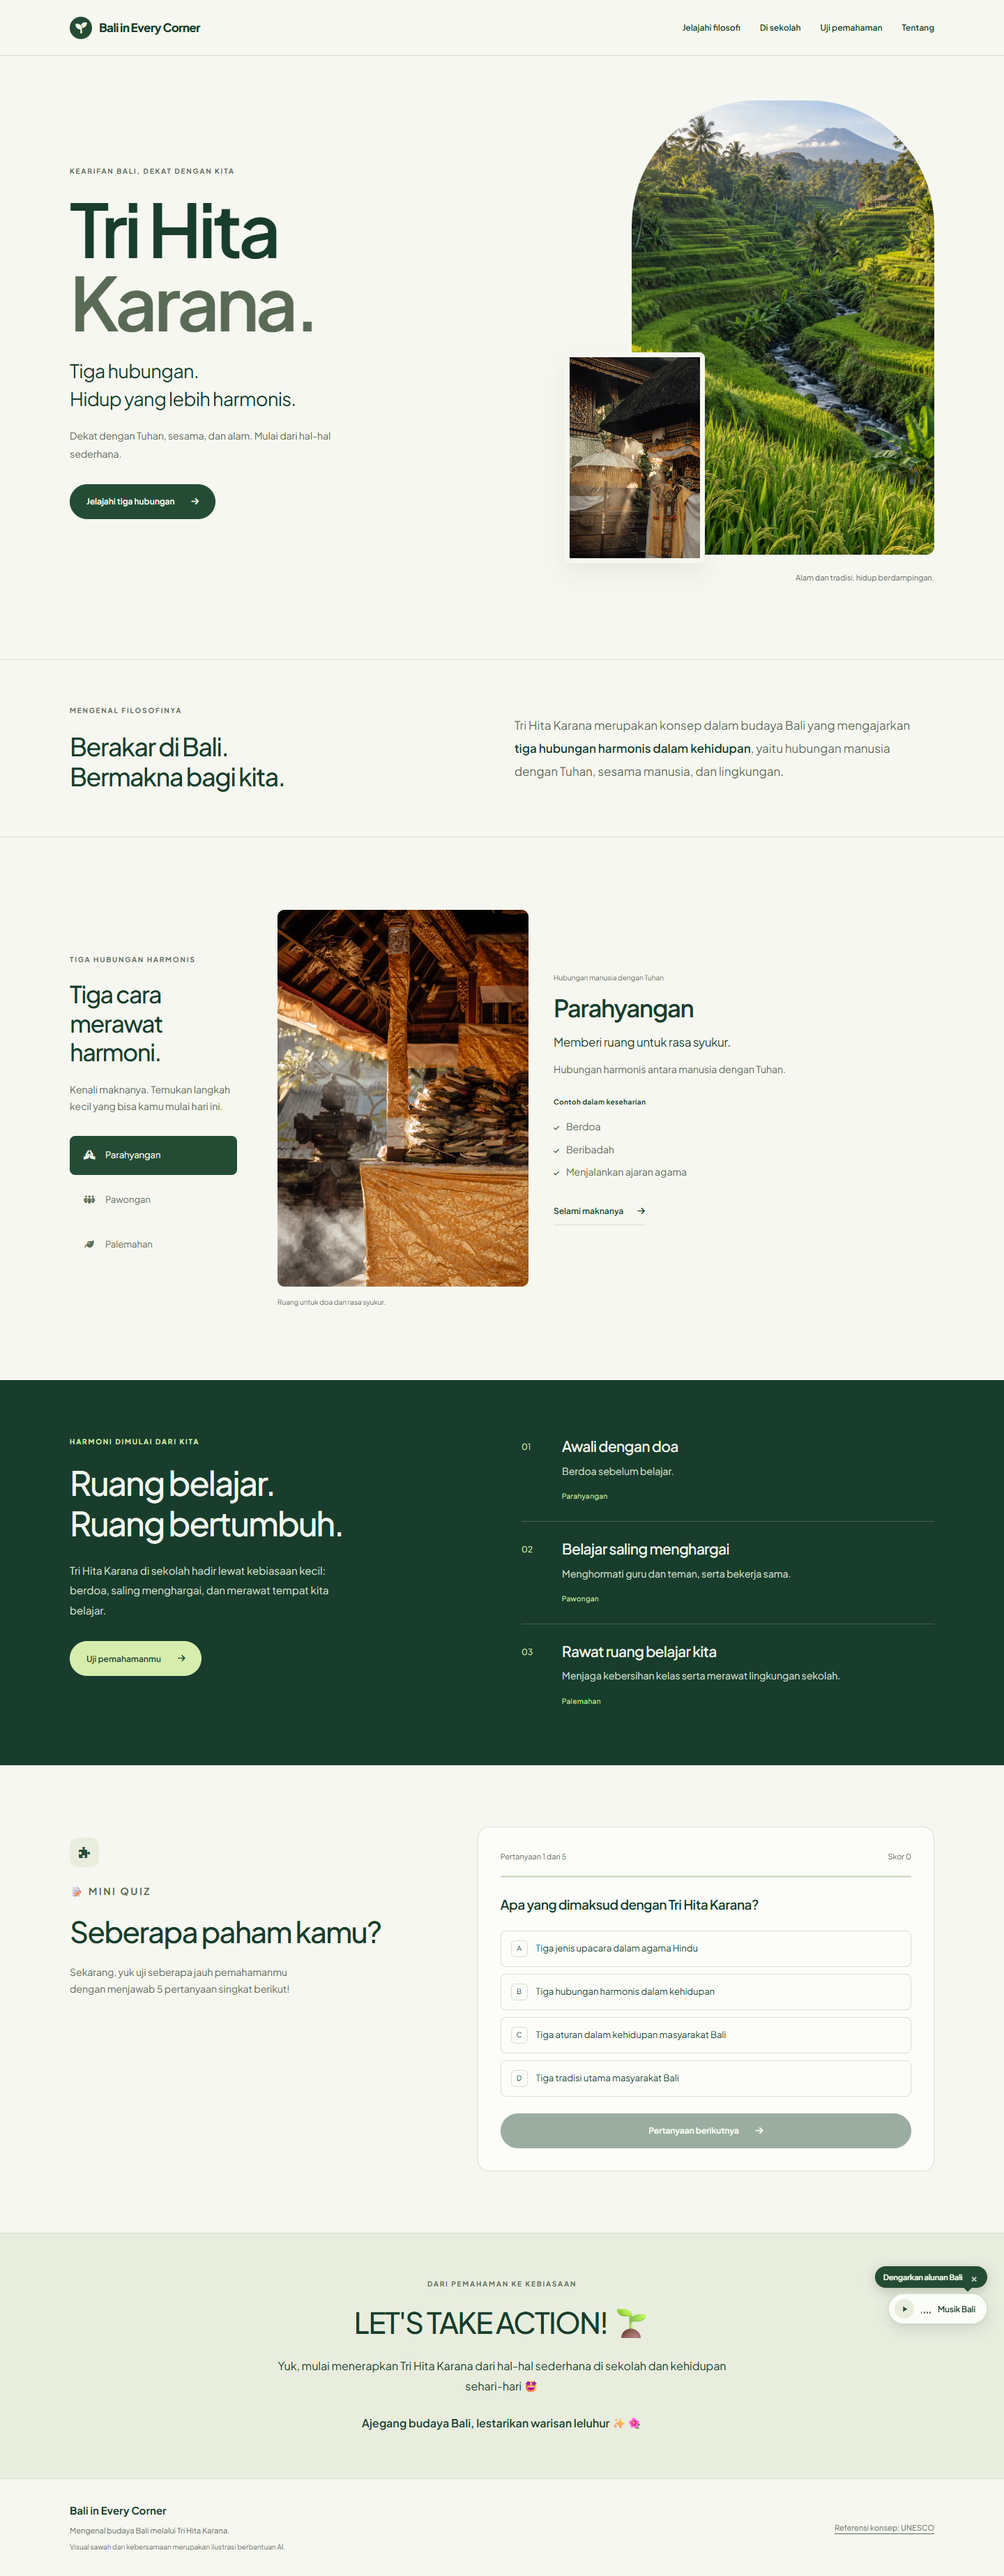
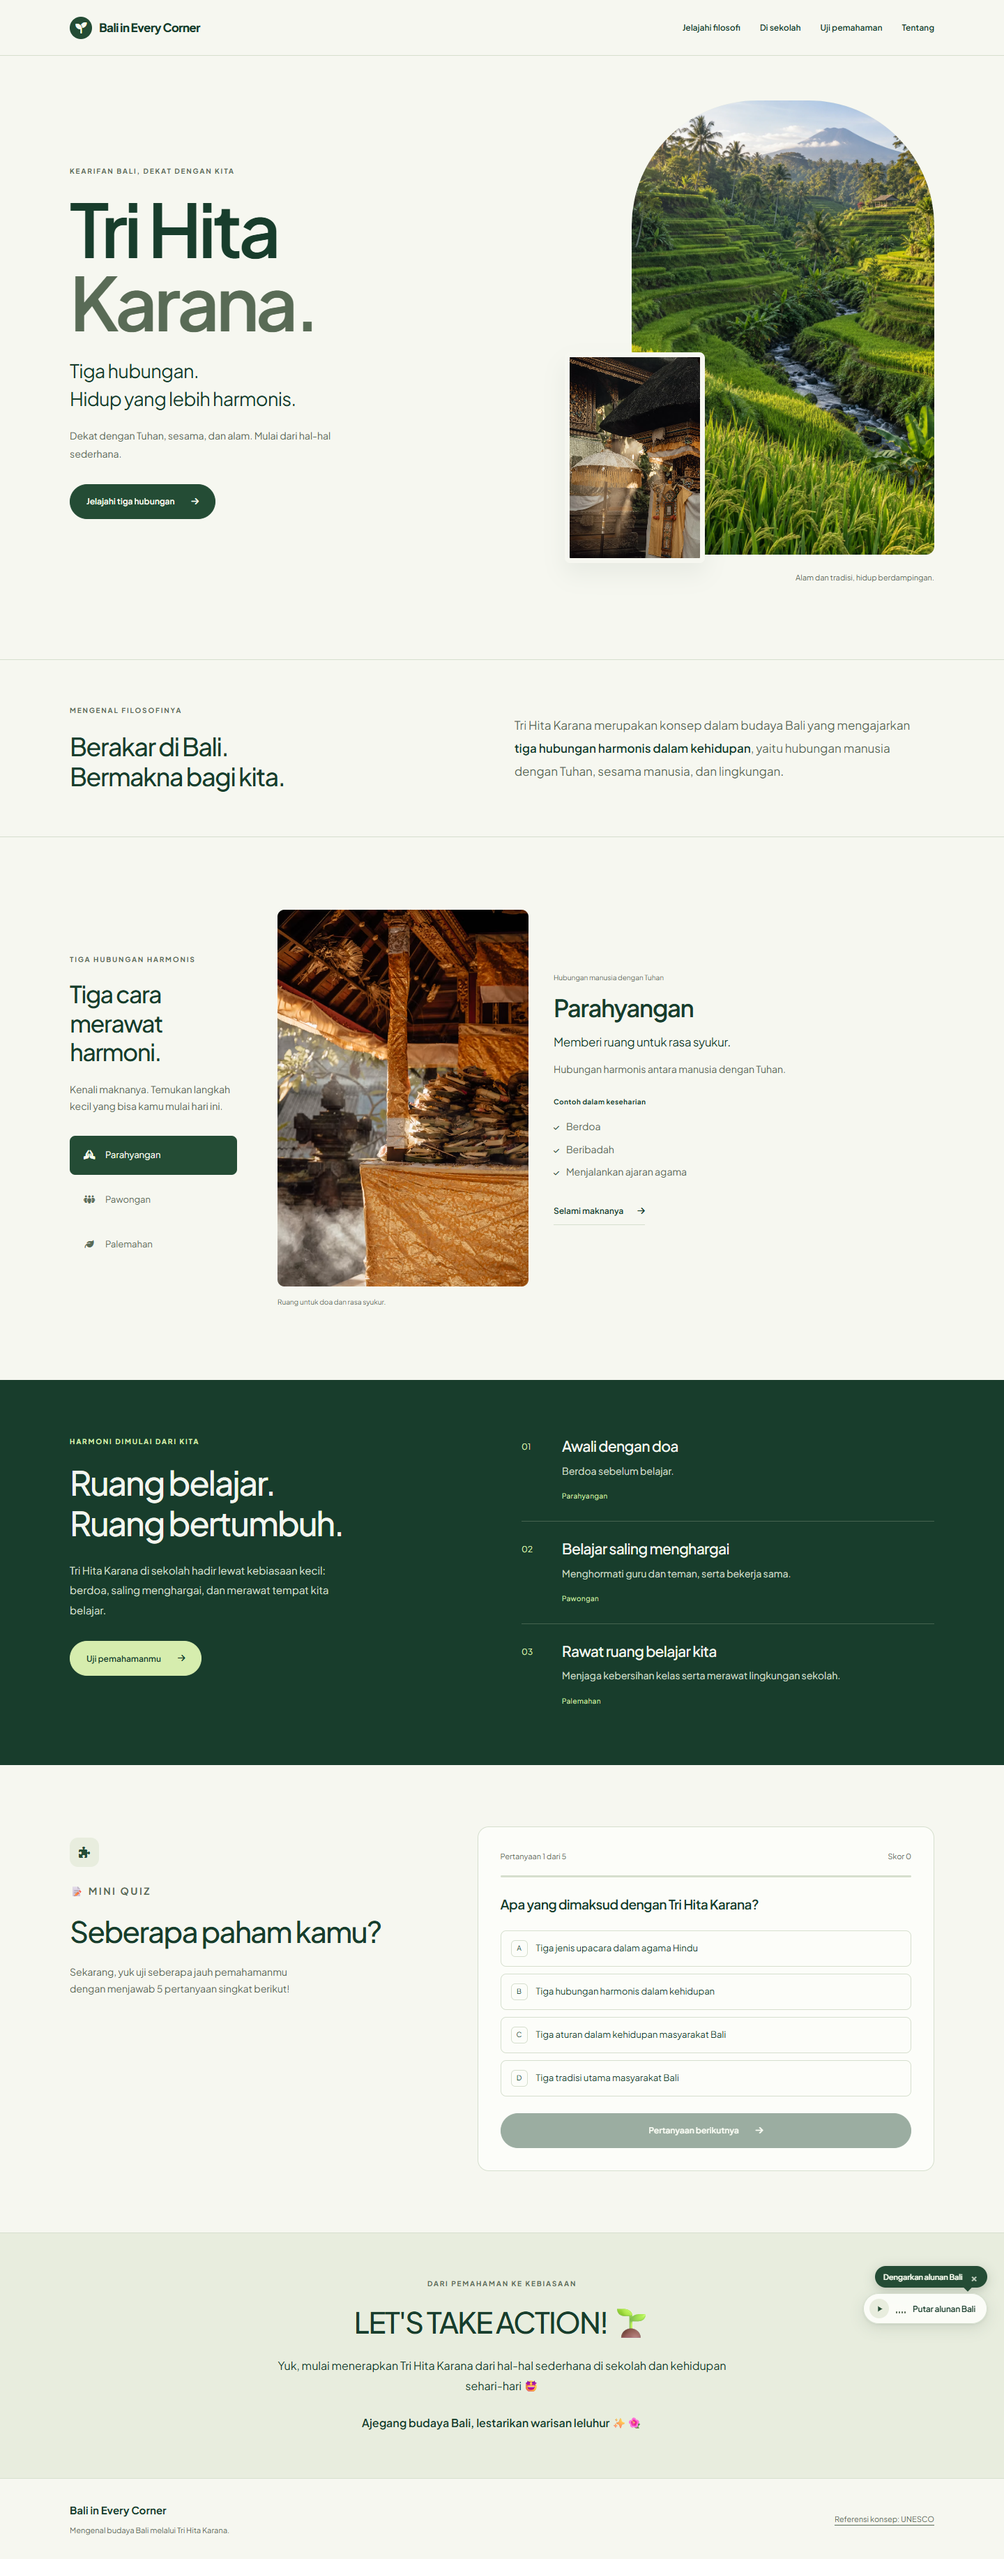
fix: fit mobile hero to browser viewport and surface music control

diff --git a/css/mobile.css b/css/mobile.css
@@ -2,21 +2,21 @@
 @media (max-width: 700px) {
   #thk-green { overflow: visible; --g-bg:light-dark(#f5f1e8,#17261f); --g-card:light-dark(#fffcf5,#20392a); --g-soft:light-dark(#e8e6d9,#284632); --g-muted:light-dark(#626759,#bfd0b5); --g-line:light-dark(#d9d8c9,#48613d); }
   #thk-green .g-wrap { padding-inline: 22px; }
-  #thk-green .g-nav { min-height: 76px; gap: 0; border:0; }
+  #thk-green .g-nav { min-height: 64px; gap: 0; border:0; }
   #thk-green .g-brand { font-size: 14px; letter-spacing: -.5px; }
   #thk-green .g-brand-mark { width: 30px; height: 30px; }
   #thk-green .g-menu-toggle { min-height: 48px; font-size: 12px; background:transparent; border:0; border-radius:0; padding-right:0; }
   #thk-green .g-navlinks.g-open { display: grid; grid-template-columns: 1fr; }
   #thk-green .g-navlinks a { font-size: 16px; min-height: 48px; }
-  #thk-green .g-hero { position:relative; padding:40px 26px 28px; background:#172c23; color:#fff9e9; isolation:isolate; }
+  #thk-green .g-hero { position:relative; padding:24px 26px 12px; background:#172c23; color:#fff9e9; isolation:isolate; }
   #thk-green .g-hero-layout { display:block; }
-  #thk-green .g-hero-heading { position:relative; z-index:1; min-height:590px; display:flex; flex-direction:column; align-items:flex-start; }
+  #thk-green .g-hero-heading { position:relative; z-index:1; min-height:500px; min-height:clamp(500px,calc(100svh - 112px),580px); display:flex; flex-direction:column; align-items:flex-start; }
   #thk-green .g-kicker { font-size: 11px; letter-spacing: .12em; margin-bottom: 14px; }
-  #thk-green h1 { font-family:Georgia,'Times New Roman',serif; font-size:clamp(64px,19vw,86px); font-weight:400; line-height:.93; letter-spacing:-.055em; text-shadow:0 2px 24px #0003; margin-top:18px; }
+  #thk-green h1 { font-family:Georgia,'Times New Roman',serif; font-size:clamp(56px,17vw,74px); font-weight:400; line-height:.93; letter-spacing:-.055em; text-shadow:0 2px 24px #0003; margin-top:12px; }
   #thk-green h1 span { color:#e4d7b3; font-style:italic; }
   #thk-green .g-hero .g-kicker { color:#eee3c7; font-size:10px; letter-spacing:.18em; }
-  #thk-green .g-hero-subtitle { margin-top:24px; font-size:17px; line-height:1.6; color:#fff9e9; }
-  #thk-green .g-hero-description { font-size:14px; line-height:1.75; margin-block:auto 22px; padding-top:110px; max-width:30ch; color:#f0ead9; }
+  #thk-green .g-hero-subtitle { margin-top:20px; font-size:17px; line-height:1.6; color:#fff9e9; }
+  #thk-green .g-hero-description { font-size:14px; line-height:1.75; margin-block:auto 16px; padding-top:24px; max-width:30ch; color:#f0ead9; }
   #thk-green .g-action { min-height:54px; width:100%; padding:14px 18px; justify-content:space-between; font-size:13px; border-radius:3px; }
   #thk-green .g-hero .g-action { background:#f1e8d2; border-color:#f1e8d2; color:#213c2c; }
   #thk-green .g-hero .g-action i { border-left:1px solid #a9b29c; padding-left:20px; }
@@ -57,9 +57,12 @@
   #thk-green .g-feedback, #thk-green .g-detail-copy { font-size: 16px; }
   #thk-green .g-footer { font-size: 13px; padding-bottom: 28px; }
   #thk-green .g-footer small { font-size: 12px; }
-  #thk-green .g-audio-dock { position: static; padding: 0 22px 28px; align-items: flex-start; }
+  #thk-green .g-audio-dock { position:static; padding:8px 0 0; align-items:center; width:100%; }
   #thk-green .g-audio-bubble { display: none; }
-  #thk-green .g-audio-btn { height: 48px; box-shadow: none; }
+  #thk-green .g-audio-btn, #thk-green .g-audio-btn[data-playing="true"] { height:48px; box-shadow:none; background:transparent; border-color:transparent; color:#f1e8d2; backdrop-filter:none; }
+  #thk-green .g-audio-disc, #thk-green .g-audio-btn[data-playing="true"] .g-audio-disc { background:#f1e8d226; color:#f1e8d2; }
+  #thk-green .g-eq-bar, #thk-green .g-audio-btn[data-playing="true"] .g-eq-bar { background:#f1e8d2; }
+  #thk-green .g-hero :focus-visible { outline-color:#f1e8d2; }
   #thk-green .g-audio-label { font-size: 14px; }
   #thk-green dialog { margin: auto auto 0; width: 100%; max-width: 700px; max-height: 85dvh; padding: 24px; border-radius: 24px 24px 0 0; }
 }

diff --git a/index.html b/index.html
@@ -7,7 +7,7 @@
   <meta name="description" content="Kenali Tri Hita Karana: hubungan harmonis dengan Tuhan, sesama manusia, dan lingkungan, serta contoh penerapannya di sekolah.">
   <link rel="stylesheet" href="css/fonts.css">
   <link rel="stylesheet" href="css/style.css">
-<link rel="stylesheet" href="css/mobile.css"></head>
+<link rel="stylesheet" href="css/mobile.css?v=3"></head>
 <body>
 
 <div id="thk-green" aria-label="Tri Hita Karana, eksplorasi interaktif">
@@ -32,6 +32,31 @@
         <p class="g-hero-subtitle">Tiga hubungan.<br>Hidup yang lebih harmonis.</p>
         <p class="g-hero-description">Dekat dengan Tuhan, sesama, dan alam. Mulai dari hal-hal sederhana.</p>
         <a class="g-action" href="#g-explore">Jelajahi tiga hubungan <i class="fa-solid fa-arrow-right" aria-hidden="true"></i></a>
+ <!-- Ambient music: inline on mobile, floating on desktop -->
+ <aside class="g-audio-dock" id="g-audio-dock" aria-label="Kontrol musik latar">
+   <div class="g-audio-bubble" id="g-audio-bubble" role="status">
+     <span>Dengarkan alunan Bali</span>
+     <button type="button" class="g-audio-bubble-close" id="g-audio-bubble-close" aria-label="Tutup petunjuk">×</button>
+   </div>
+   <button type="button" class="g-audio-btn" id="g-audio-btn" aria-label="Putar musik latar Bali" aria-pressed="false" data-playing="false">
+     <span class="g-audio-disc" aria-hidden="true">
+       <svg class="g-icon-play" viewBox="0 0 24 24" width="13" height="13" fill="currentColor">
+         <path d="M8 5v14l11-7z"/>
+       </svg>
+       <svg class="g-icon-pause" viewBox="0 0 24 24" width="13" height="13" fill="currentColor">
+         <path d="M6 19h4V5H6v14zm8-14v14h4V5h-4z"/>
+       </svg>
+     </span>
+     <span class="g-audio-equalizer" aria-hidden="true">
+       <span class="g-eq-bar"></span>
+       <span class="g-eq-bar"></span>
+       <span class="g-eq-bar"></span>
+       <span class="g-eq-bar"></span>
+     </span>
+     <span class="g-audio-label" id="g-audio-label">Putar alunan Bali</span>
+   </button>
+   <audio id="g-audio-el" preload="none" loop src="assets/audio/tri-hita-karana.mp3"></audio>
+ </aside>
       </div>
       <div class="g-hero-visual">
         <figure class="g-landscape">
@@ -138,35 +163,11 @@
    </div>
  </dialog>
 
- <!-- Floating Ambient Balinese Music Dock -->
- <aside class="g-audio-dock" id="g-audio-dock" aria-label="Kontrol musik latar">
-   <div class="g-audio-bubble" id="g-audio-bubble" role="status">
-     <span>Dengarkan alunan Bali</span>
-     <button type="button" class="g-audio-bubble-close" id="g-audio-bubble-close" aria-label="Tutup petunjuk">×</button>
-   </div>
-   <button type="button" class="g-audio-btn" id="g-audio-btn" aria-label="Putar musik latar Bali" aria-pressed="false" data-playing="false">
-     <span class="g-audio-disc" aria-hidden="true">
-       <svg class="g-icon-play" viewBox="0 0 24 24" width="13" height="13" fill="currentColor">
-         <path d="M8 5v14l11-7z"/>
-       </svg>
-       <svg class="g-icon-pause" viewBox="0 0 24 24" width="13" height="13" fill="currentColor">
-         <path d="M6 19h4V5H6v14zm8-14v14h4V5h-4z"/>
-       </svg>
-     </span>
-     <span class="g-audio-equalizer" aria-hidden="true">
-       <span class="g-eq-bar"></span>
-       <span class="g-eq-bar"></span>
-       <span class="g-eq-bar"></span>
-       <span class="g-eq-bar"></span>
-     </span>
-     <span class="g-audio-label" id="g-audio-label">Musik Bali</span>
-   </button>
-   <audio id="g-audio-el" preload="none" loop src="assets/audio/tri-hita-karana.mp3"></audio>
- </aside>
+
 </div>
 
   <!-- Main Application Script -->
-  <script src="js/app.js"></script>
+  <script src="js/app.js?v=3"></script>
 </body>
 </html>
 

diff --git a/js/app.js b/js/app.js
@@ -99,7 +99,7 @@
   const audioDock=find('g-audio-dock'),audioBtn=find('g-audio-btn'),audioBubble=find('g-audio-bubble'),audioBubbleClose=find('g-audio-bubble-close'),audioLabel=find('g-audio-label'),audio=find('g-audio-el');
   let fadeTimer=null;
   function setVolume(target,duration=500,onDone){if(!audio)return;clearInterval(fadeTimer);const stepMs=30,steps=Math.max(1,duration/stepMs),diff=(target-audio.volume)/steps;fadeTimer=setInterval(()=>{const next=audio.volume+diff;if((diff>0&&next>=target)||(diff<0&&next<=target)||diff===0){audio.volume=Math.max(0,Math.min(1,target));clearInterval(fadeTimer);if(onDone)onDone();}else{audio.volume=Math.max(0,Math.min(1,next));}},stepMs);}
-  function updateAudioUI(playing){if(!audioBtn)return;audioBtn.dataset.playing=String(playing);audioBtn.setAttribute('aria-pressed',String(playing));audioBtn.setAttribute('aria-label',playing?'Jeda musik latar Bali':'Putar musik latar Bali');if(audioLabel)audioLabel.textContent=playing?'Alunan Bali':'Musik Bali';}
+  function updateAudioUI(playing){if(!audioBtn)return;audioBtn.dataset.playing=String(playing);audioBtn.setAttribute('aria-pressed',String(playing));audioBtn.setAttribute('aria-label',playing?'Jeda musik latar Bali':'Putar musik latar Bali');if(audioLabel)audioLabel.textContent=playing?'Jeda alunan Bali':'Putar alunan Bali';}
   function dismissBubble(){if(audioBubble){audioBubble.classList.add('g-hidden');try{sessionStorage.setItem('thk_audio_bubble_dismissed','1');}catch(_){}}}
   async function playAudio(){dismissBubble();if(!audio)return;try{audio.volume=0;const promise=audio.play();if(promise!==undefined){await promise;updateAudioUI(true);setVolume(.65,700);}}catch(err){console.log('Audio playback waiting for user action:',err);updateAudioUI(false);}}
   function pauseAudio(){if(!audio)return;setVolume(0,350,()=>{audio.pause();updateAudioUI(false);});}

diff --git a/STATUS.md b/STATUS.md
@@ -106,3 +106,10 @@
 - Removed the visible AI-assistance footer sentence from production and both review concepts at user request.
 - Recommended an inline music control immediately below the hero; placement remains unchanged pending user's choice.
 - Verified served homepage no longer contains the removed sentence. Continuing the user's authorized GitHub push workflow.
+
+## 2026-09-24: iPhone viewport fit and visible music control
+- Used supplied iPhone screenshot to address excessive hero height and CTA falling behind the visible browser viewport.
+- Reduced mobile header/title/spacing and replaced fixed hero minimum with small-viewport-aware sizing; content can still grow for smaller screens or larger text.
+- Moved existing audio control into hero below CTA on mobile; retained desktop floating placement. Added clear Putar/Jeda alunan Bali labels, matching ivory treatment and visible focus style. No autoplay.
+- Verified both controls fit 390x664 and 390x670 browser viewports; checked 320/430 widths and actual audio playback/pause in Edge. Screenshot visually inspected. Physical iPhone Safari has not been tested.
+- Added viewport-fit regression to scripts/verify.cjs. Production CSS/JS URLs versioned for refreshed phone loads. User's standing push authorization applies.
